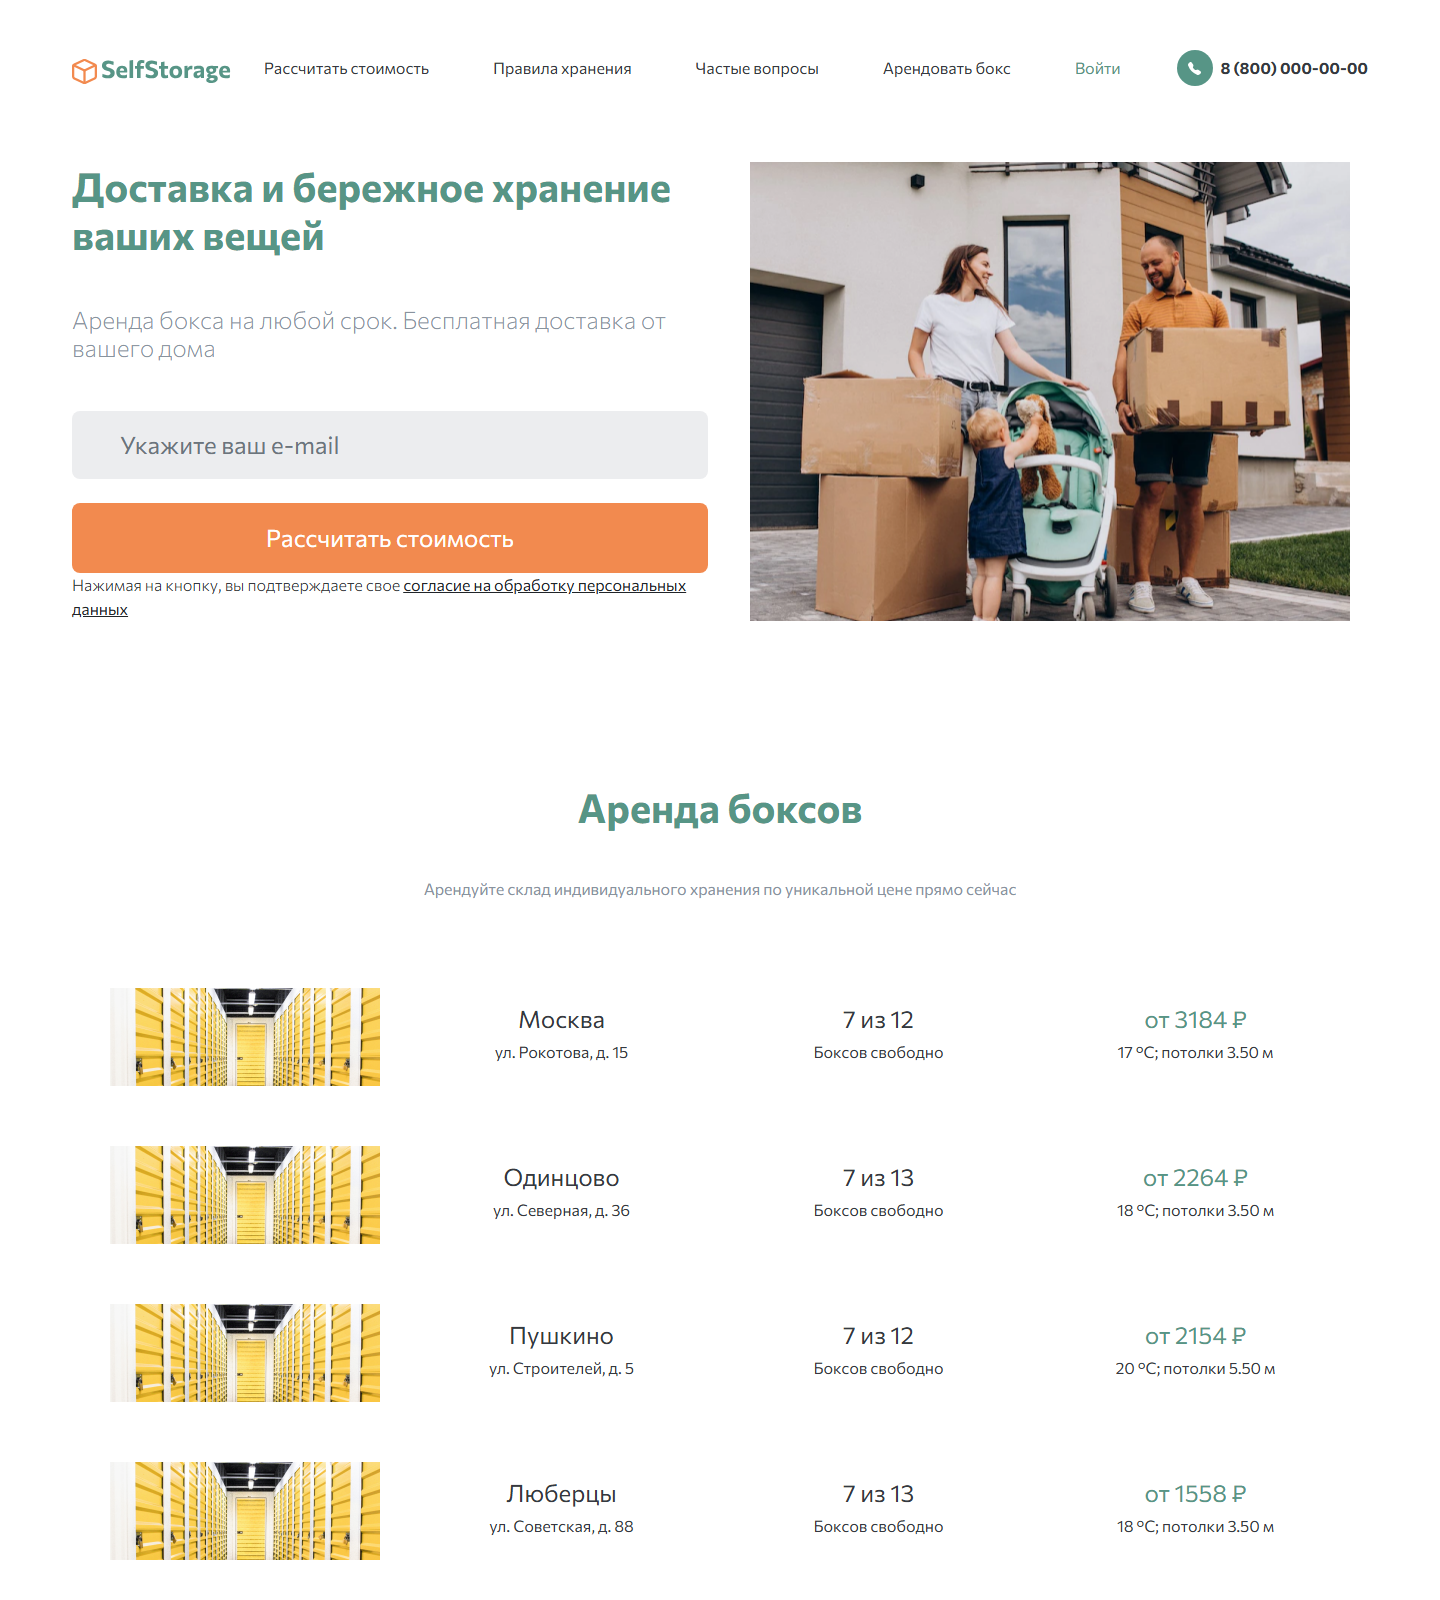
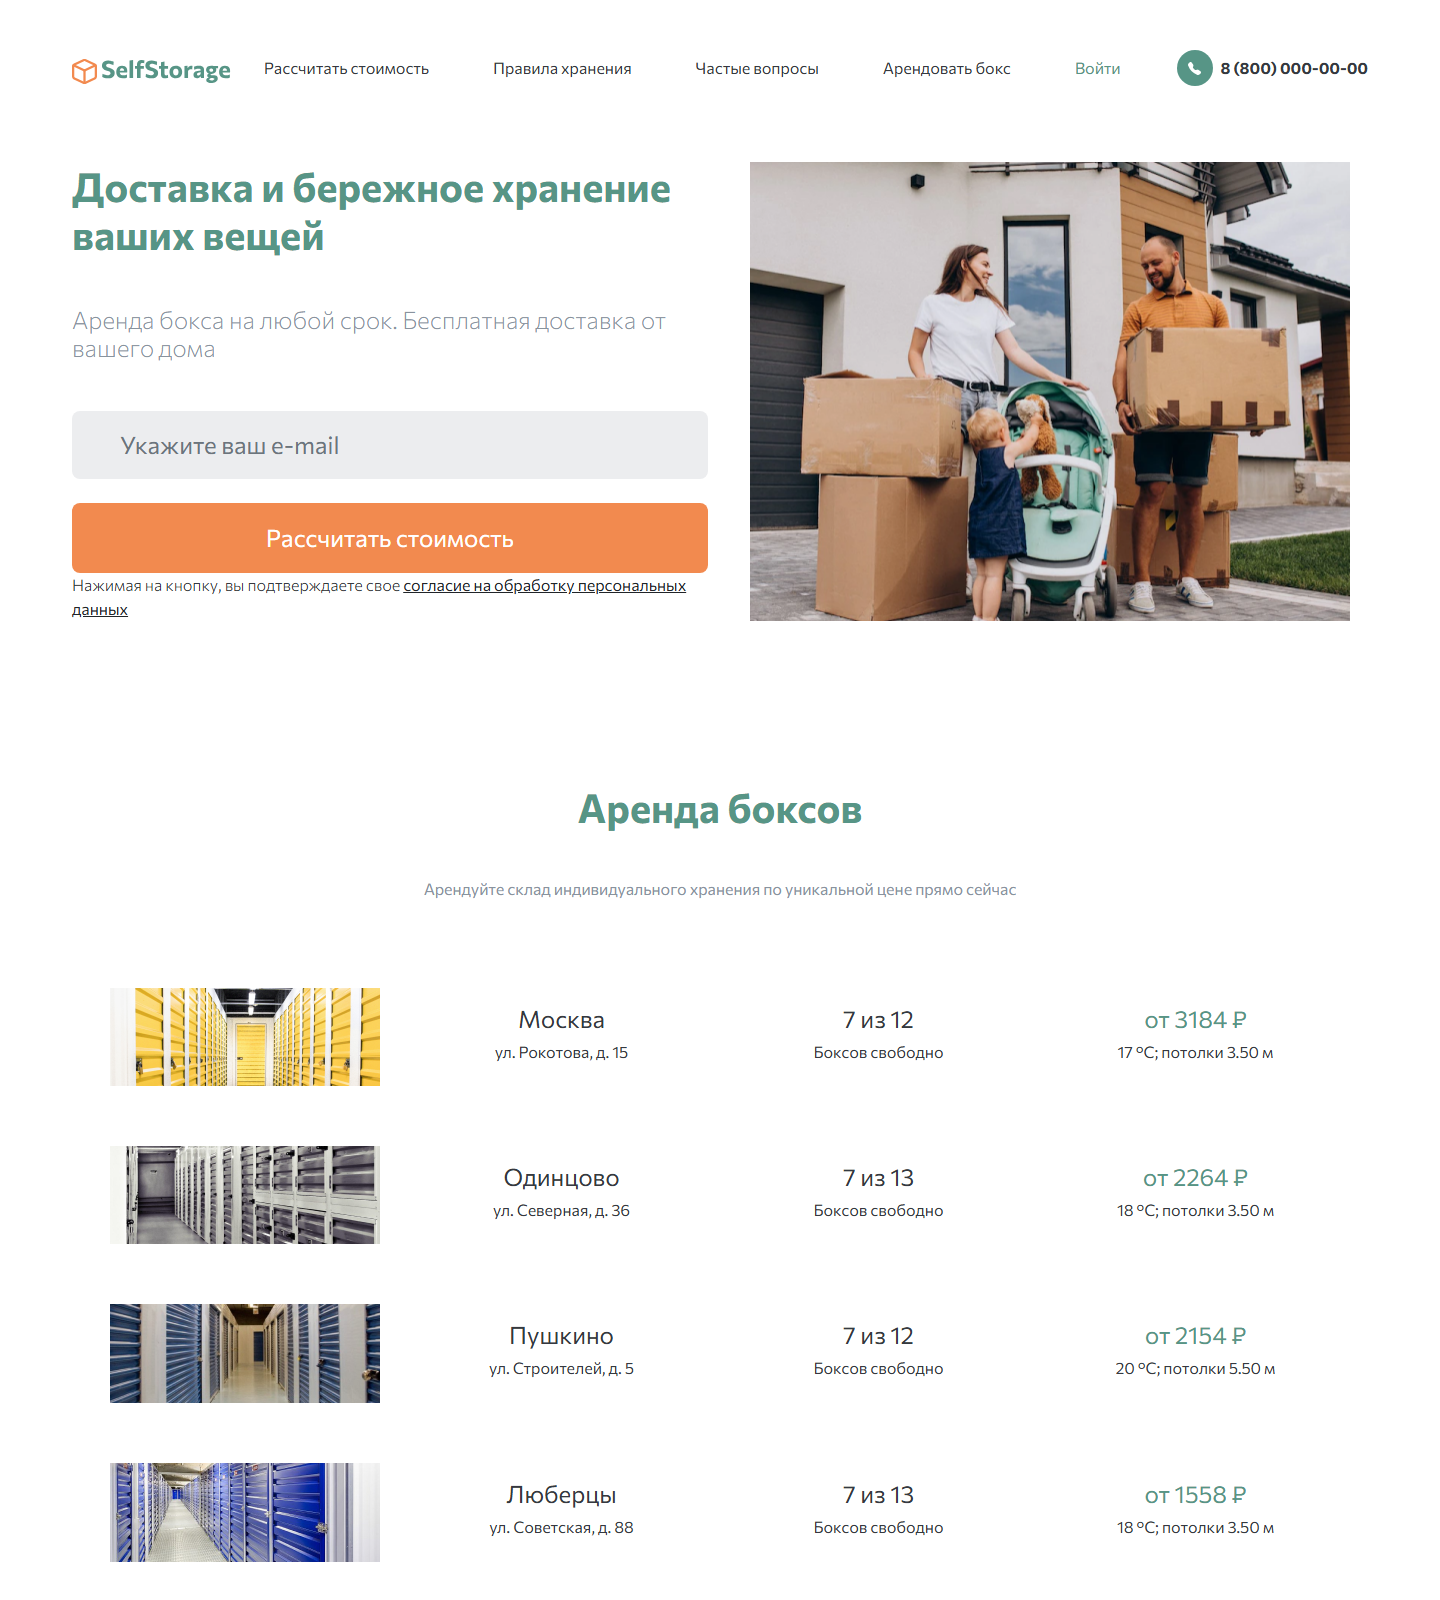
docs(readme): screenshots for README — refresh warehouses, add owner dashboard
- docs/img/warehouses.png переснят со стенда (сменились фото складов)
- docs/img/owner_dashboard.png — дашборд владельца со входом через CDP
  (sessionid кукой до перехода, светлая тема, кадр на весь рост)
- README: добавлен скриншот панели владельца
- docs/TODO.md: задача «Скриншоты для README» закрыта; отмечен
  закоммиченный ранее print() -> логгер (6d59c03); уточнена устаревшая
  формулировка рефакторинга (box_open/can_open_box больше нет в коде)

diff --git a/docs/TODO.md b/docs/TODO.md
@@ -12,22 +12,8 @@
 
 ## Витрина
 
-- [ ] **P1 · Скриншоты для README** (нужны глаза человека — картинки не проверяются автоматически)
-  - [ ] Посмотреть `docs/img/*.png` и заменить, если что-то обрезано или попало лишнее: `home.png`, `warehouses.png`, `storage_rules.png`, `login.png`.
-  - [ ] Снять **дашборд владельца** `/admin/owner-dashboard/` под `admin@selfstorage.ru` — самая сильная карточка для HR, headless-съёмкой не берётся, потому что нужен вход.
-  - [ ] По желанию добавить: каталог с фильтром, карточку бокса, шаг визарда оформления, личный кабинет, QR-доступ.
-  - Съёмка с живого стенда (Chrome, PowerShell):
-
-    ```powershell
-    $chrome = "C:\Program Files\Google\Chrome\Application\chrome.exe"
-    $a = @("--headless=new", "--disable-gpu", "--hide-scrollbars", "--no-first-run",
-           "--user-data-dir=$env:TEMP\ss-profile", "--window-size=1440,2400",
-           "--virtual-time-budget=9000", "--screenshot=$PWD\docs\img\home.png",
-           "https://selfstorage.kislyakov.pro/")
-    Start-Process -FilePath $chrome -ArgumentList $a -Wait -WindowStyle Hidden
-    ```
-
-    Без `Start-Process -Wait` PowerShell не дожидается Chrome. PK складов после пересева растут, поэтому адрес карточки бокса брать со страницы `/warehouses/`, а не угадывать.
+- [x] **P1 · Скриншоты для README:** сделано — свежие снимки страниц сняты со стенда и сверены с `docs/img/*.png` попиксельно: `home.png`, `storage_rules.png`, `login.png` совпали, `warehouses.png` заменён (на стенде сменились фото складов). Снят **дашборд владельца** `/admin/owner-dashboard/` под `admin@selfstorage.ru` — headless Chrome + CDP: `sessionid` подставляется кукой до перехода, тема принудительно светлая (иначе админка тёмная), кадр на весь рост страницы. Файл: `docs/img/owner_dashboard.png`, вставлен в README. Финальный просмотр картинок человеком всё ещё полезен — агент проверял попиксельно и по DOM, но глазами не смотрел. По желанию (не сделано, не обязательно): каталог с фильтром, карточка бокса, шаг визарда, личный кабинет, QR-доступ.
+  - Публичные страницы — та же схема, что раньше: `$chrome --headless=new --hide-scrollbars --user-data-dir=$env:TEMP\ss-profile --window-size=1440,2400 --virtual-time-budget=9000 --screenshot=<файл> <url>` через `Start-Process -Wait` (без `-Wait` PowerShell не дожидается Chrome). Снимать с вьюпортом, а не гигантским окном: `vh`-стили раздуваются. PK складов после пересева растут — адрес карточки бокса брать со страницы `/warehouses/`, а не угадывать.
 
 - [x] **P1 · Мёртвые ссылки — этап 1 (ссылки и формы):** все `href="#"`, кроме рабочих переключателей модалок (`data-bs-toggle`), уведомлены в реальные страницы: «Рассчитать стоимость»/«Тарифы»/«Адреса складов»/«Как выбрать бокс» → каталог, «Подробнее о складе»/«Подробнее»/«Арендовать бокс»/«Выбрать склад» на главной → каталог, «Выйти» в личном кабинете → POST logout, «Нужна помощь?» → FAQ, «Контакты» → якорь `#contacts` в футере, «Правовые документы» → якорь `#legal` на странице политики. Формы «Рассчитать стоимость» (главная ×2, FAQ, каталог) → GET-форма на каталог. Создана страница политики `/privacy/` (черновик текста, согласовать перед публикацией) — связана со всеми 4 формами согласия на ПД. Осталось на другие этапы: отзывы (этап 2), колокольчик уведомлений (этап 3).
 - [ ] **P2 · Реальные соцссылки в футере:** сейчас заглушки (`vk.com/username`, `t.me/username`, `wa.me/70000000000`) — TODO-комментарий в `includes/footer.html`. Пришлю ссылки на VK, Telegram, WhatsApp и сайт — подставить. Не приоритет: ставим в конце, когда всё остальное готово.
@@ -43,8 +29,8 @@
 
 ## Качество кода
 
-- [ ] **P2 · `yookassa_webhook`** (`apps/payments/views.py`) пишет `print()`, а не в логгер; там же `except Exception as e: print(...)`. Залогировать через `logging` и `logger.exception`.
-- [ ] **P3 · Рефакторинг из архитектурного ревью:** вынести `box_open` / `box_close` / `can_open_box` из `apps/rentals/views.py` в `apps/rentals/services.py` — views сейчас смешивают HTTP и бизнес-правила. Работа заметная по объёму, но её результат виден в структуре кода.
+- [x] **P2 · `yookassa_webhook`** (`apps/payments/views.py`) — сделано в `6d59c03`: `print()` заменён на логгер, `except Exception as e: print(...)` → `logger.exception`.
+- [ ] **P3 · Рефакторинг из архитектурного ревью:** вынести бизнес-правила доступа к боксу из `apps/rentals/views.py` (`BoxAccessView.get` открывает бокс, функция `box_close` закрывает) в `apps/rentals/services.py` — views сейчас смешивают HTTP и бизнес-правила. (`box_open` / `can_open_box` из старой формулировки в коде уже не существуют.) Работа заметная по объёму, но её результат виден в структуре кода.
 - [ ] **P3 · Детализация тестов:** покрытие смотреть по приложениям, а не по общему числу (число в документах не фиксируем — устаревает).
 
 ## Инфраструктура и процесс
@@ -65,5 +51,7 @@
 - `ff11cb4` — бейджи технологий в README, `docs/TODO.md` с разделом витрины, исправлен CI-бейдж (skislyakov → skislyakow).
 - `9acca8c` — этап 1: мёртвые ссылки → реальные страницы, добавлена `privacy` и тесты.
 - `17ee904` — этап 2: модель `Review`, модерация в админке, карусель отзывов на главной.
-- `Нынешняя работа` — **этап 3: in-app уведомления**: модель `Notification`, колокольчик со счётчиком и выпадашка, страница `/notifications/` с «отметить все прочитанными», создание уведомлений при оплате и при напоминаниях/просрочках (команда `send_notifications`), контекст-процессор, демо-уведомления в `seed_demo`, тесты на колокольчик и валидацию.
+- `2c181a5` — **этап 3: in-app уведомления**: модель `Notification`, колокольчик со счётчиком и выпадашка, страница `/notifications/` с «отметить все прочитанными», создание уведомлений при оплате и при напоминаниях/просрочках (команда `send_notifications`), контекст-процессор, демо-уведомления в `seed_demo`, тесты на колокольчик и валидацию.
+- `6d59c03` — payments: `print()` в `yookassa_webhook` заменён на логгер.
+- `Нынешняя работа` — **скриншоты для README**: `warehouses.png` обновлён со стенда, добавлен `owner_dashboard.png` (дашборд владельца со входом через CDP), README дополнен, задача в разделе «Витрина» закрыта.
 - Закрыто ранее: `seed_demo` на стенде — осознанное поведение витрины, описано в `docs/deployment.md`.

diff --git a/README.md b/README.md
@@ -62,6 +62,8 @@
 
 ![Вход](docs/img/login.png)
 
+![Панель владельца — дашборд заказов, выручки и заявок на доставку](docs/img/owner_dashboard.png)
+
 ## Как запустить
 
 ```powershell
